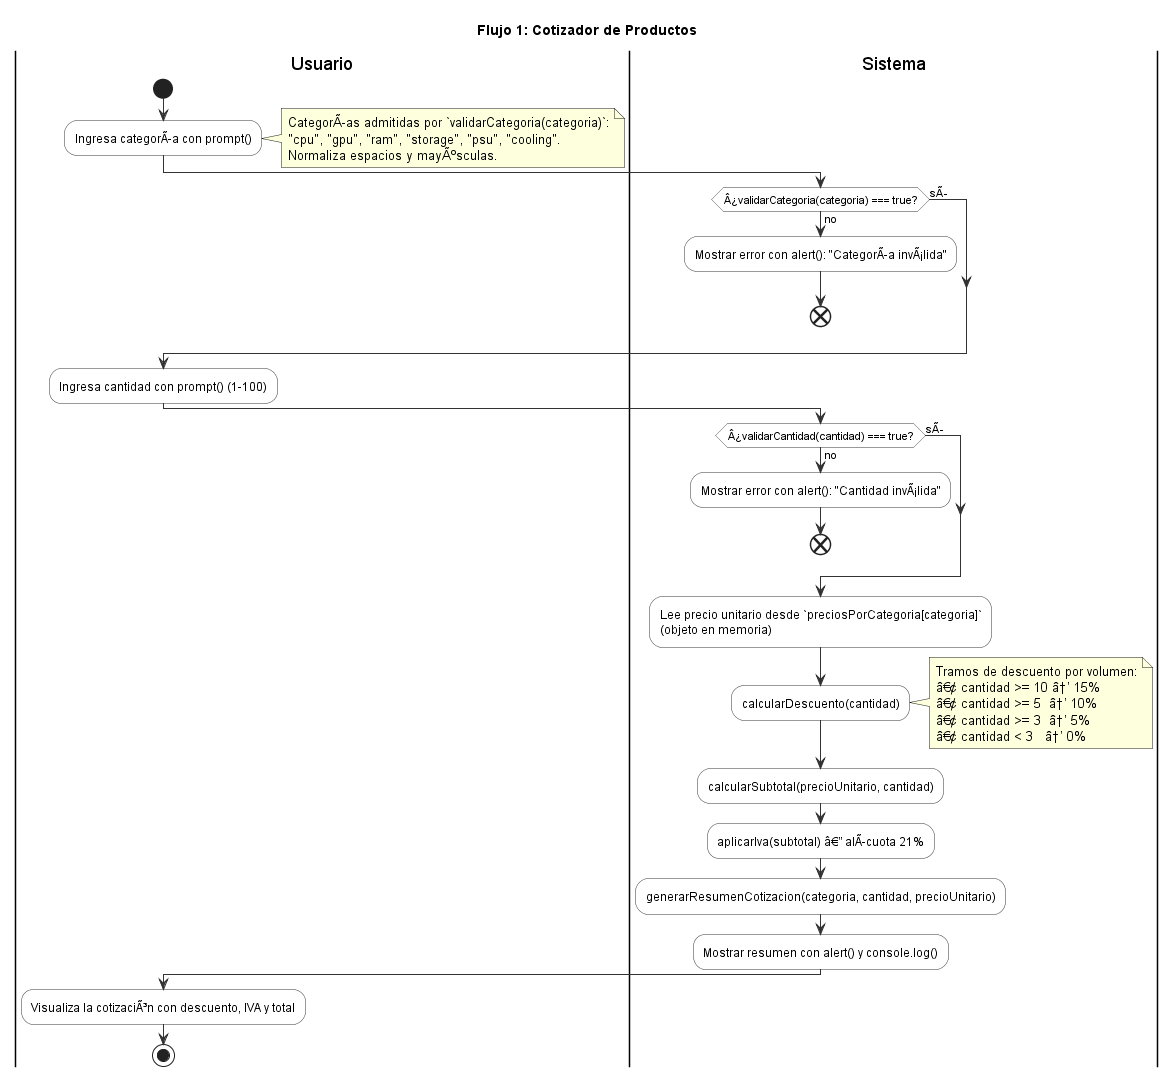
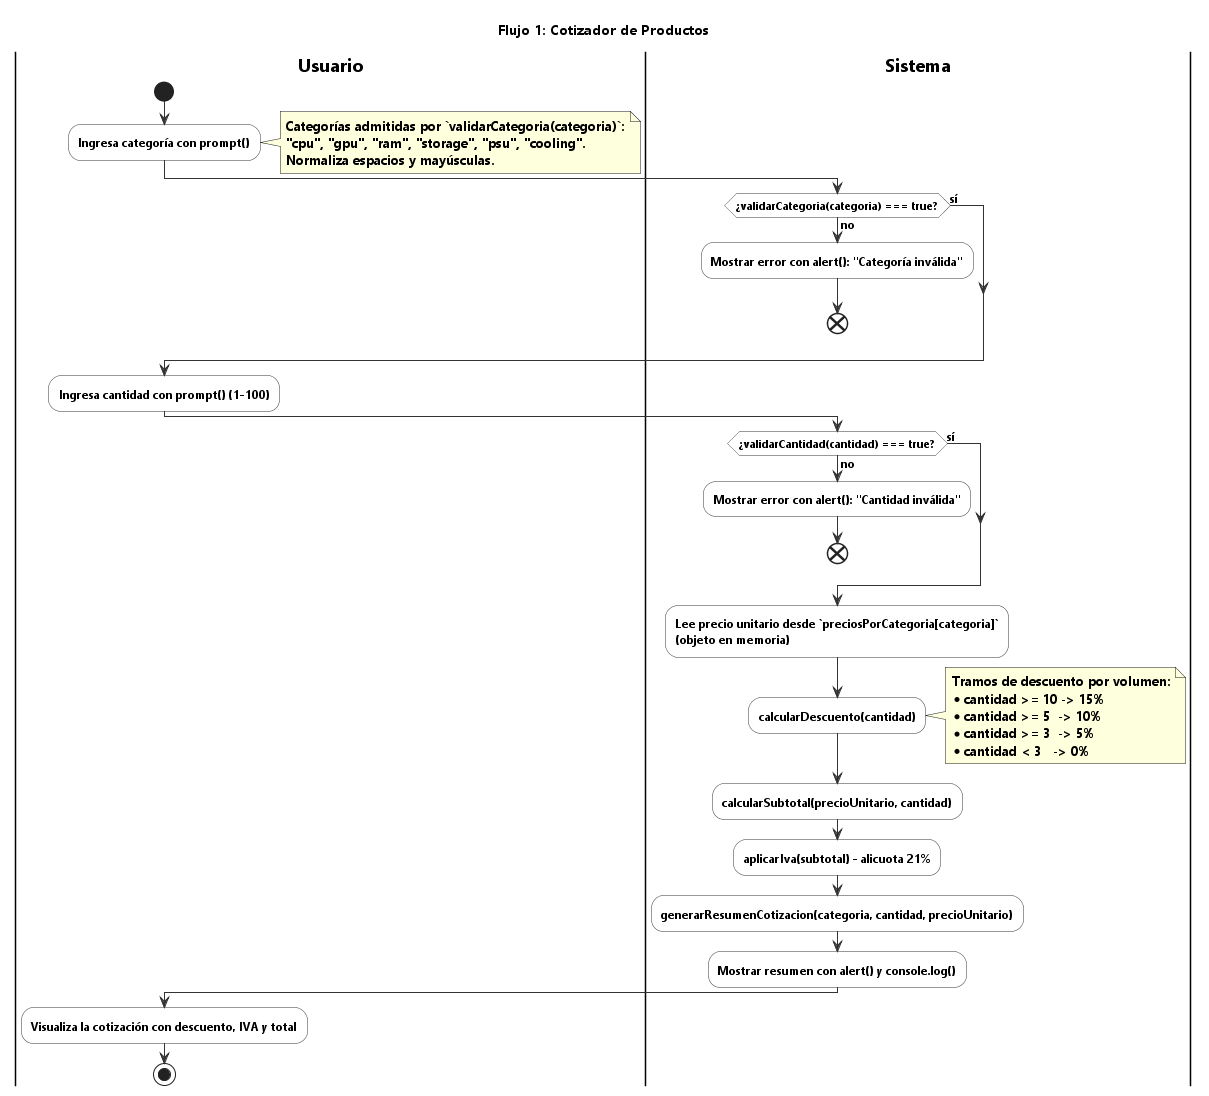
fix(coord-devops): RCN2-RCN5 (R2) - corregir caracteres especiales en diagramas PNG

diff --git a/changelog.md b/changelog.md
@@ -22,8 +22,11 @@ Este archivo se actualiza con cada Pull Request para registrar avances y correcc
 
 ### Fixed
 
-- [fix/coord-devops-png-diagramas] Resolución de RCN1, RCN2, RCN3 y RCN4: regeneración de los 4 archivos `.png` de los diagramas de actividades con PlantUML para que el contenido visual coincida con los `.puml` actuales (renumeración + simplificación de compatibilidad + nuevo Cotizador).
-  PR: [#XXX](https://github.com/GonzaloBarbano/E-commerce/pull/XXX) - @Naguirre0102 (Coordinador / DevOps + Arquitecto de Diagramas)
+- [fix/coord-devops-puml-fonts] Resolución de RCN2, RCN3, RCN4 y RCN5: corrección del renderizado de caracteres especiales en los 4 PNGs de diagramas.
+  PR: [#129](https://github.com/GonzaloBarbano/E-commerce/pull/129) - @Naguirre0102 (Coordinador / DevOps + Arquitecto de Diagramas)
+
+- [fix/coord-devops-png-diagramas] Resolución de RCN1, RCN2, RCN3 y RCN4.
+  PR: [#128](https://github.com/GonzaloBarbano/E-commerce/pull/128) - @Naguirre0102 (Coordinador / DevOps + Arquitecto de Diagramas)
 
 - [fix/coord-devops-rc23-compatibilidad] Resolución de RC23
   PR: [#127](https://github.com/GonzaloBarbano/E-commerce/pull/127) - @Naguirre0102 (Coordinador / DevOps + Arquitecto de Diagramas)
